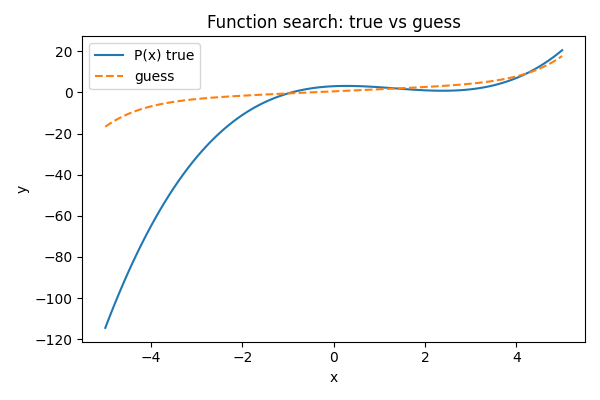
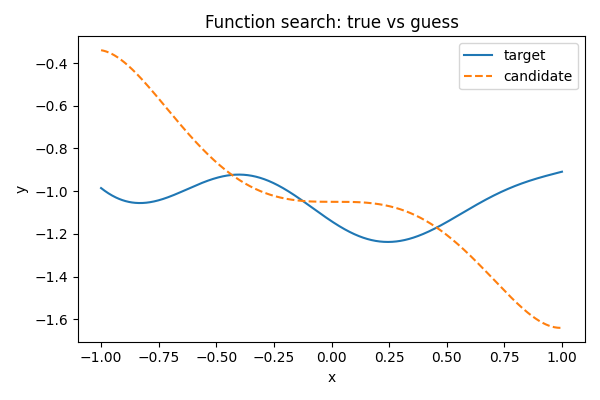
fix globals scoping bug

diff --git a/src/marker_pattern/lang/compiler.py b/src/marker_pattern/lang/compiler.py
@@ -628,6 +628,19 @@ def compile_program(prog: Program) -> MarkerRuntime:
                     parent_env = dict(lexical_env)
                     for k, v in parent_env.items():
                         kwargs.setdefault(k, v)
+                # Inject global environment bindings so procedures can access
+                # top-level assignments without needing explicit parameters.
+                try:
+                    globals_env = getattr(rt, "_globals_env")  # type: ignore[attr-defined]
+                except Exception:
+                    globals_env = None
+                if isinstance(globals_env, dict):
+                    for gk, gv in globals_env.items():
+                        kwargs.setdefault(gk, gv)
+                    current_env = rt._current_env.get()  # type: ignore[attr-defined]
+                    if isinstance(current_env, dict):
+                        for gk, gv in globals_env.items():
+                            current_env.setdefault(gk, gv)
                 # Enforce parameter type annotations if provided
                 if p.param_type_annotations is not None:
                     for param_name in p.params:
